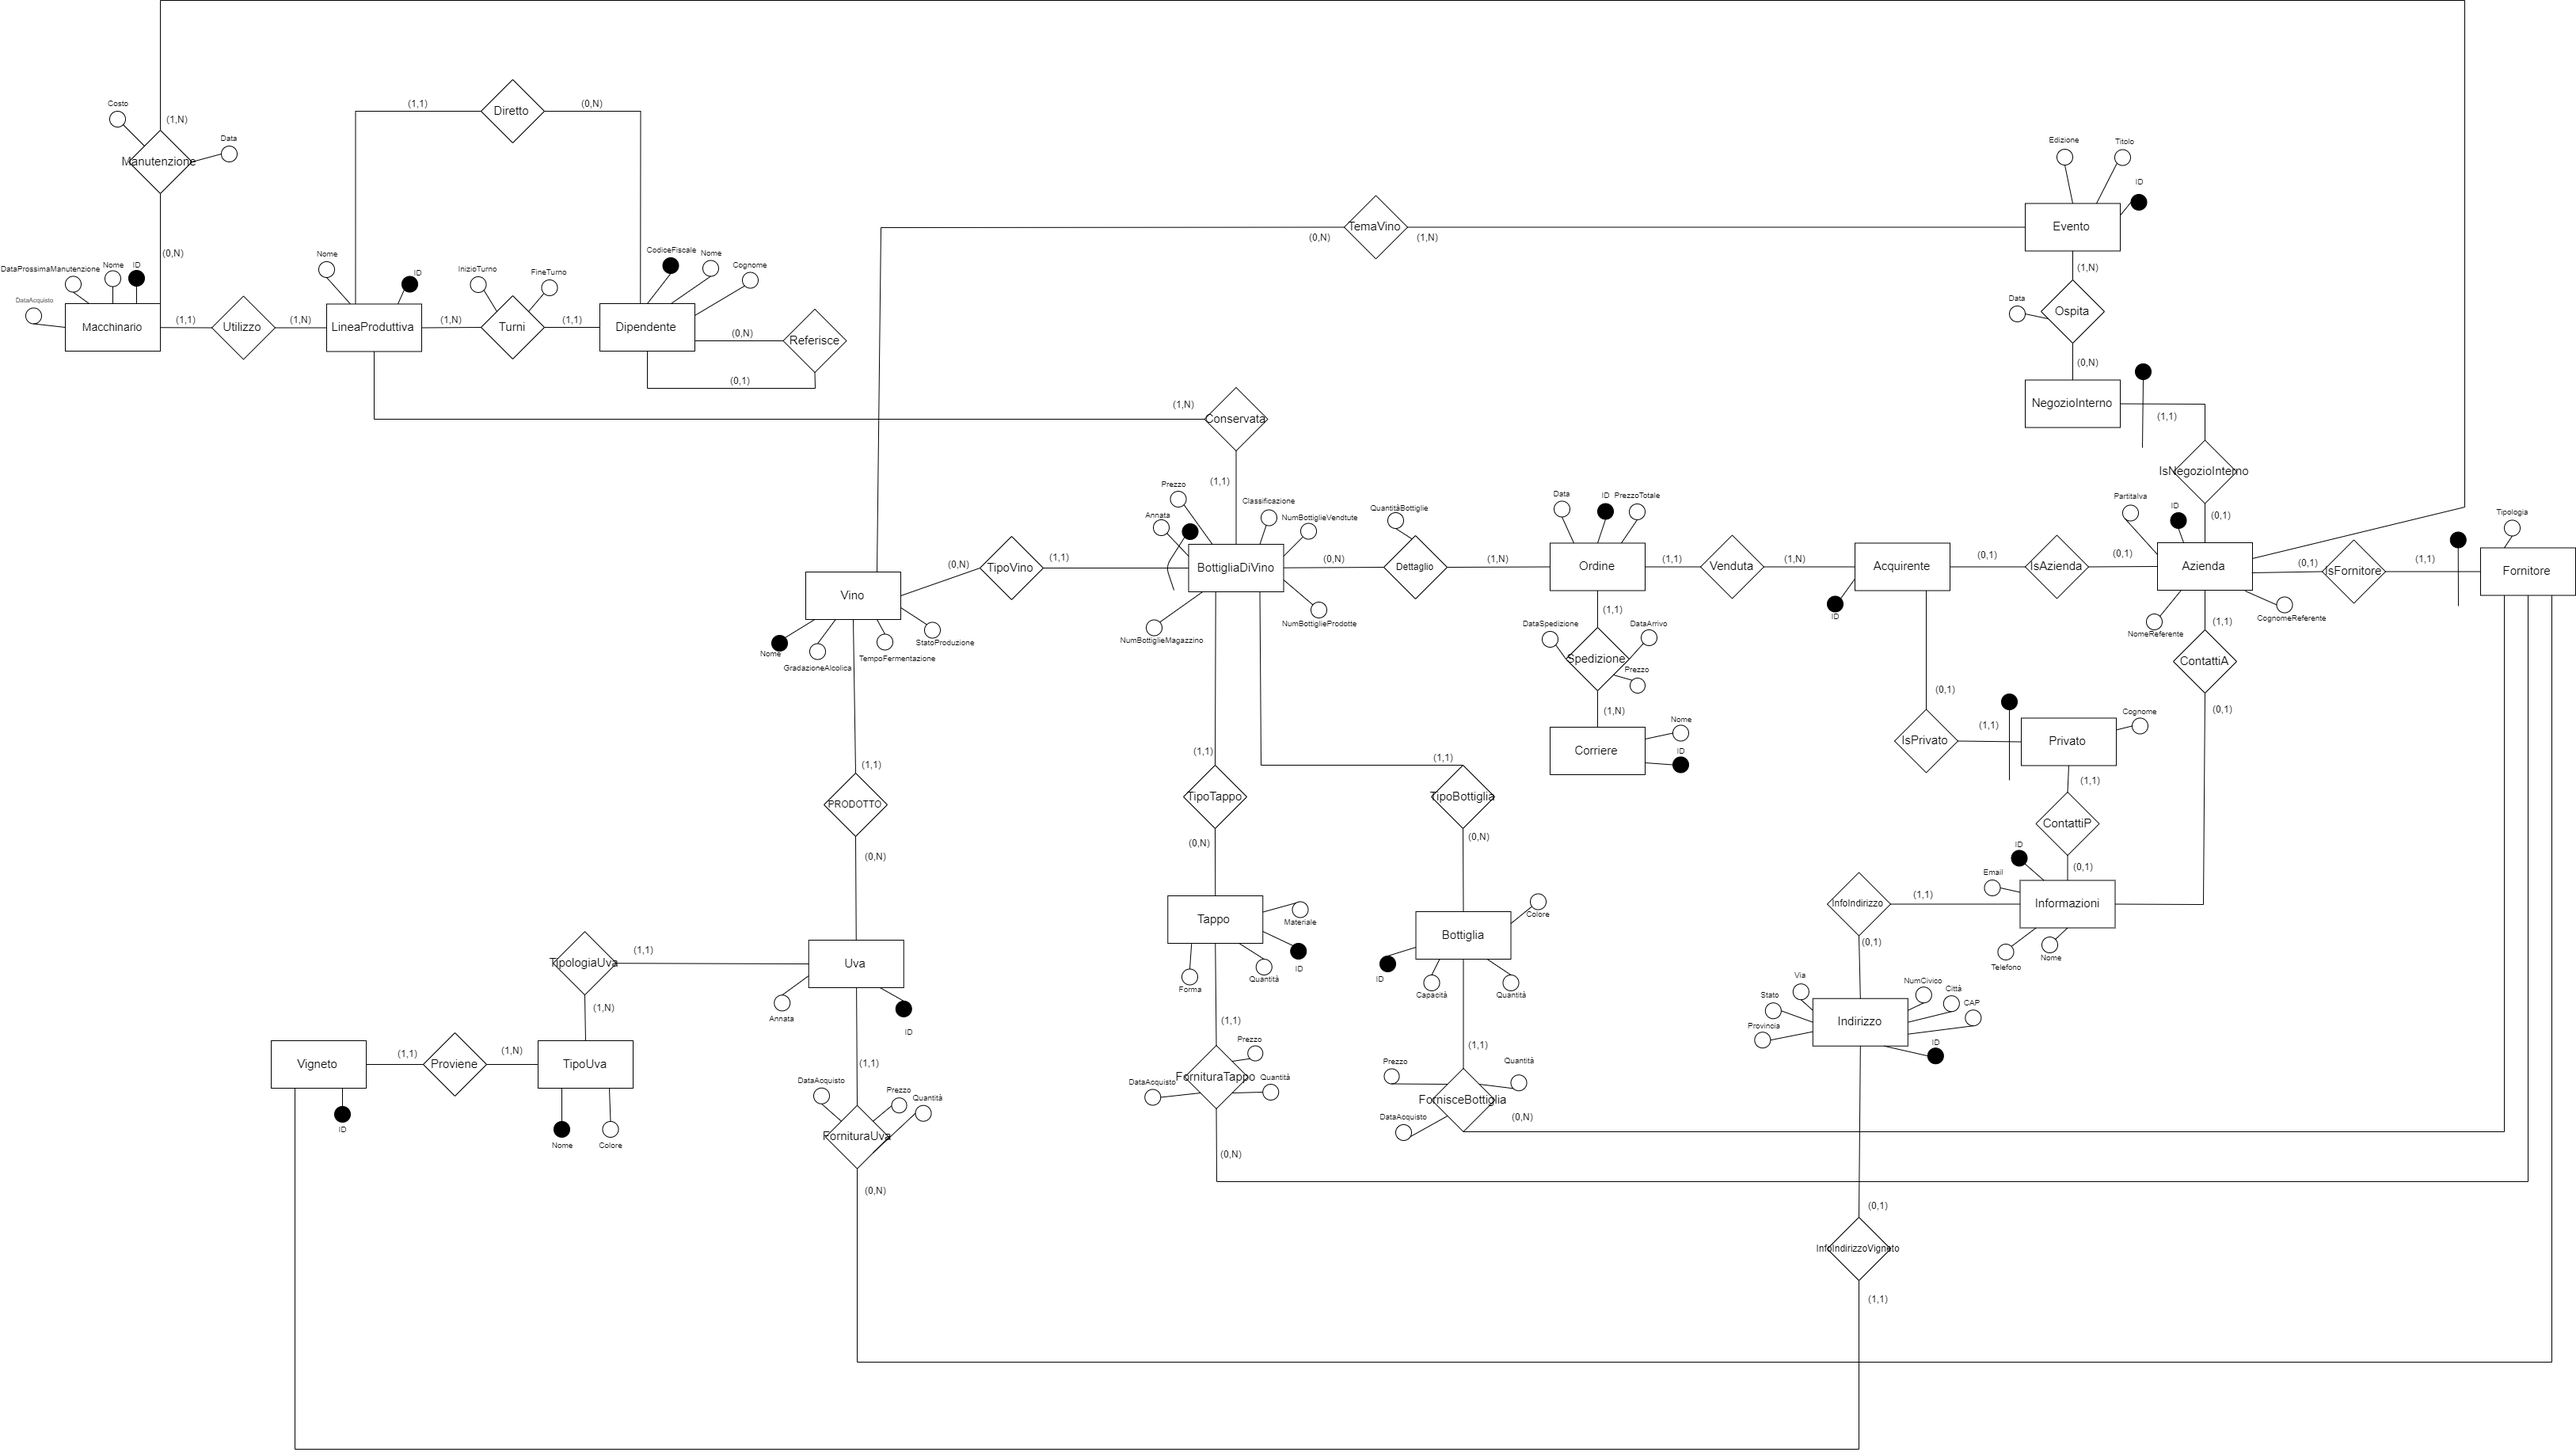
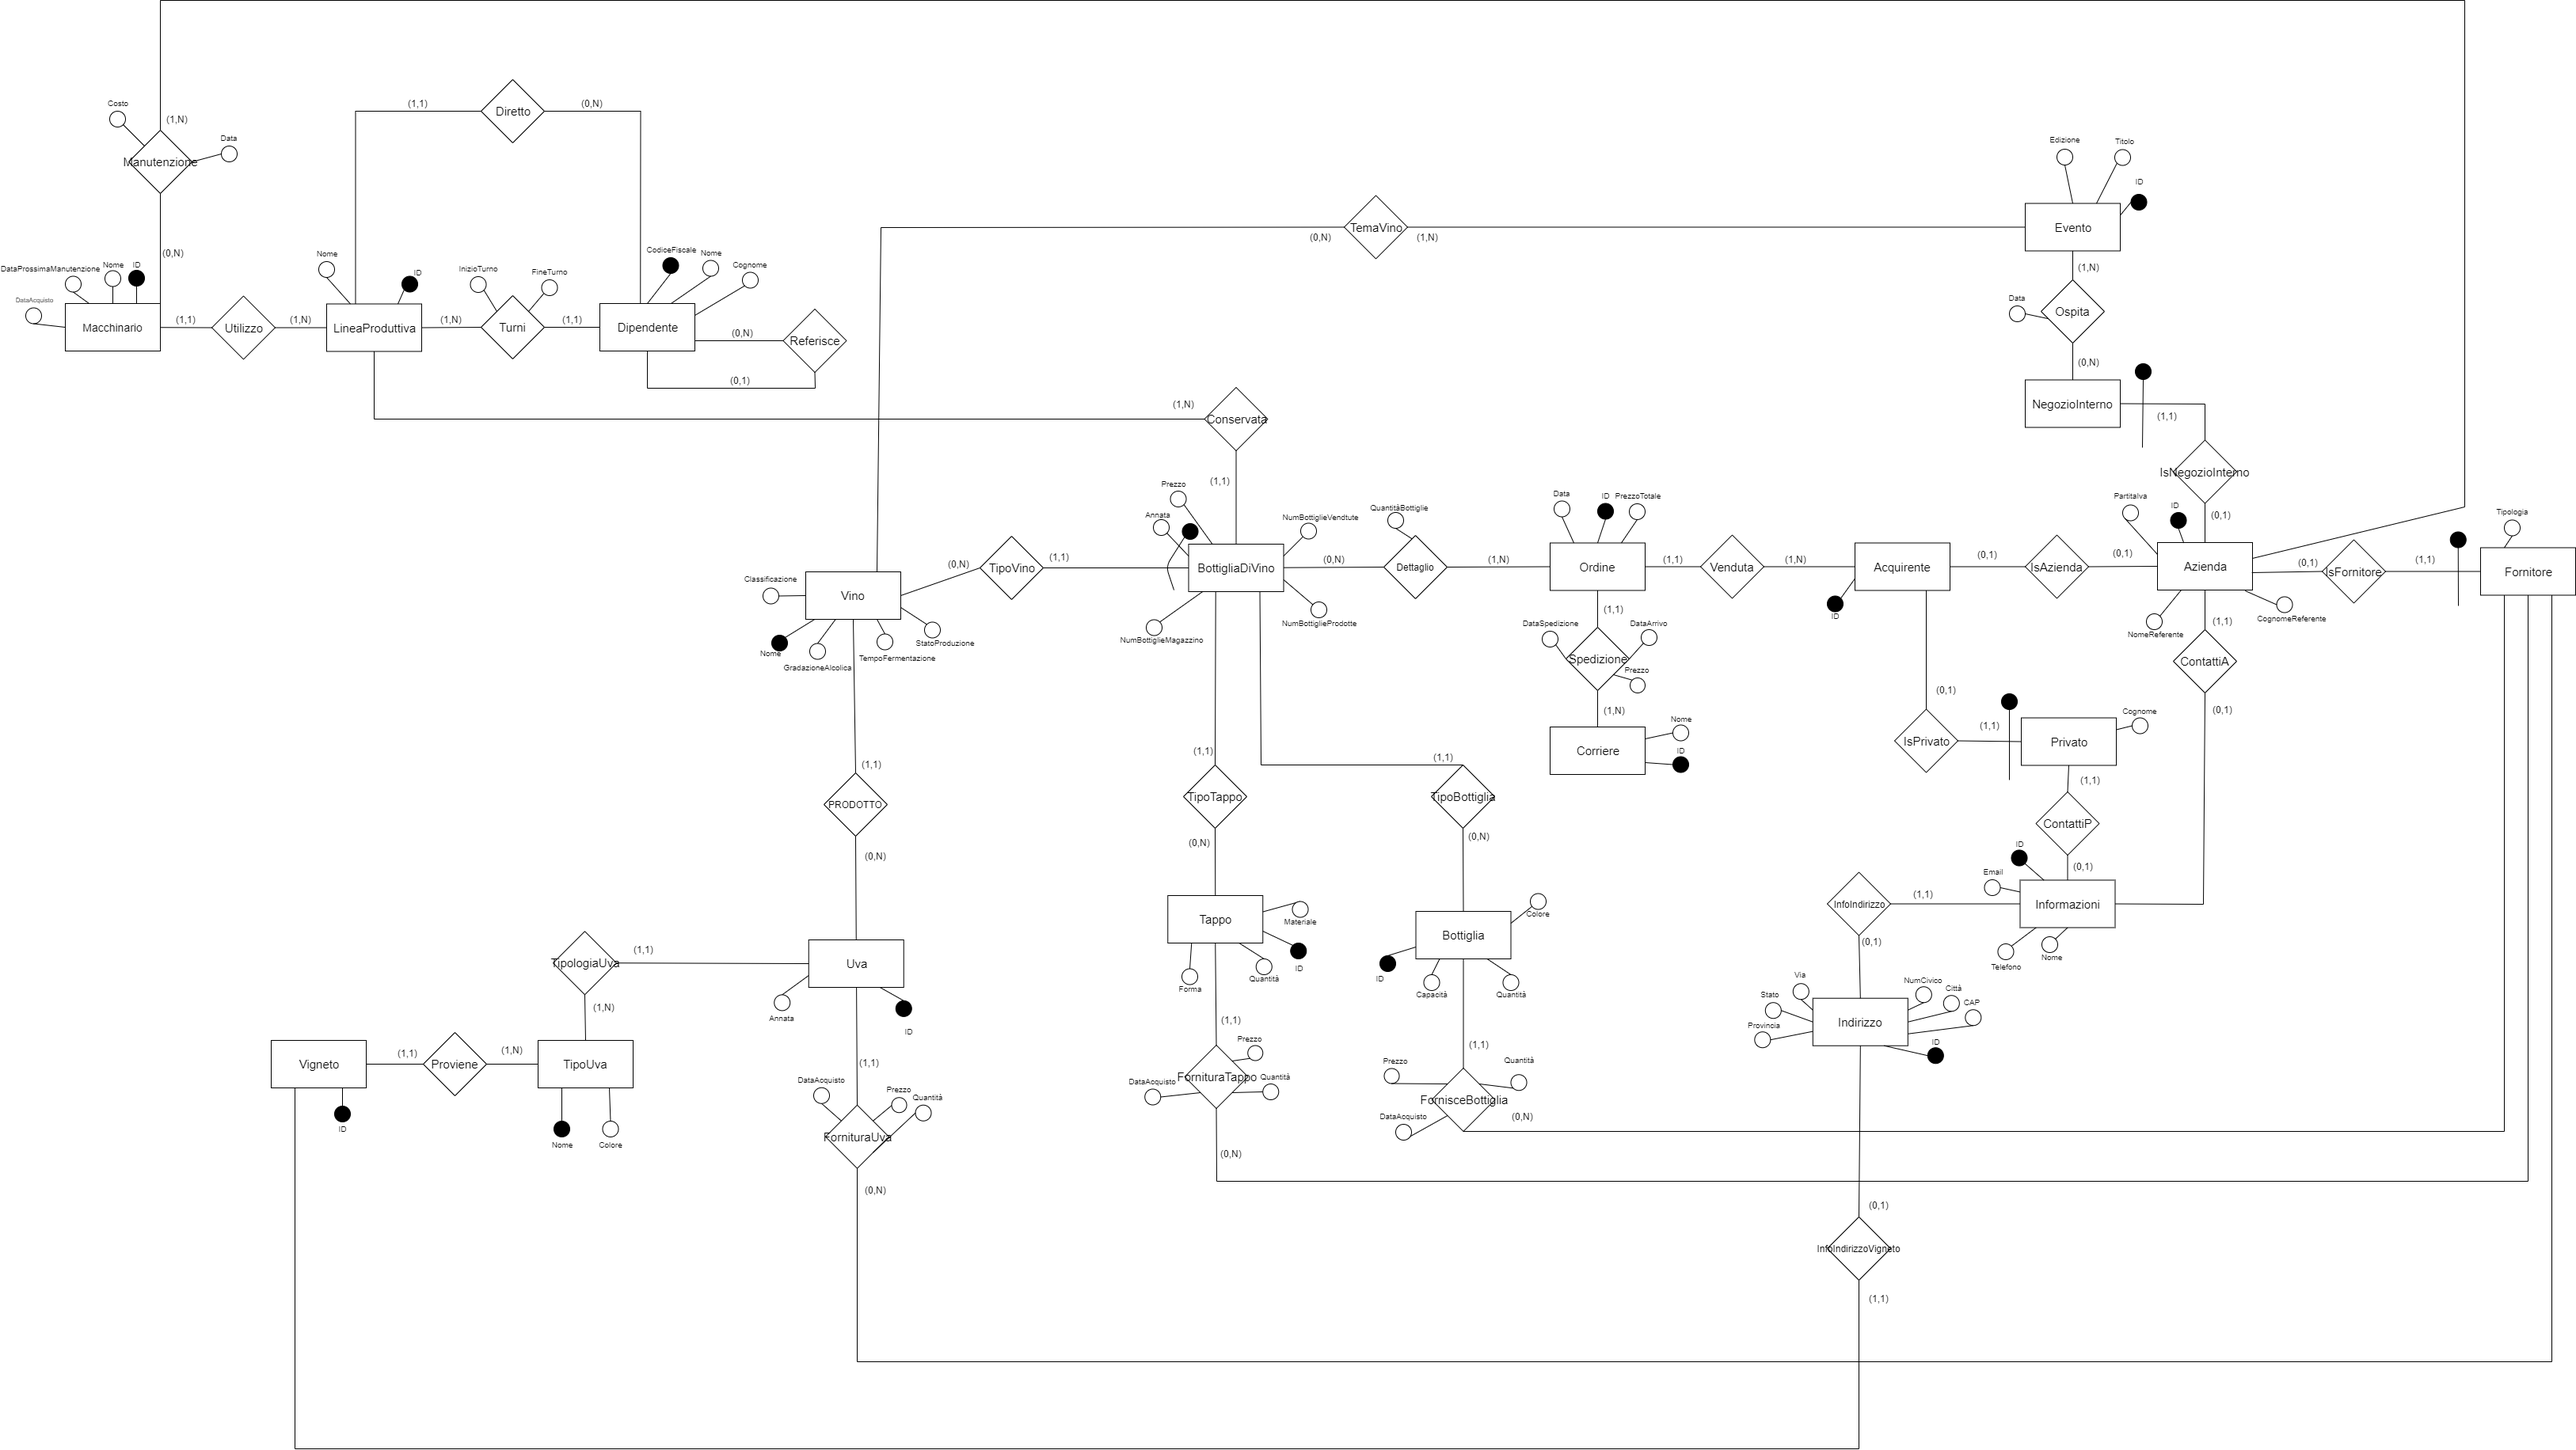
Agiunta classificazione a Vino

diff --git a/src/progettazioneConcettuale/diagramma_er.tex b/src/progettazioneConcettuale/diagramma_er.tex
@@ -1,4 +1,2 @@
-\begin{figure}
-    \subsection{Diagramma ER}
-    \centerline{\includegraphics[width=25cm,keepaspectratio,angle=90]{src/progettazioneConcettuale/assests/cantina_ER.png}}
-\end{figure}
+\subsection{Diagramma ER}
+\centerline{\includegraphics[width=18cm,keepaspectratio,angle=0]{src/progettazioneConcettuale/assests/cantina_ER.png}}

diff --git a/src/progettazioneLogica/_main.tex b/src/progettazioneLogica/_main.tex
@@ -15,3 +15,5 @@
 
 \subsection{Schema relazionale e vincoli d'integrità referenziale}
 \input{src/progettazioneLogica/schema_relazionale.tex}
+
+\input{src/progettazioneLogica/diagramma_er_ristrutturato.tex}
